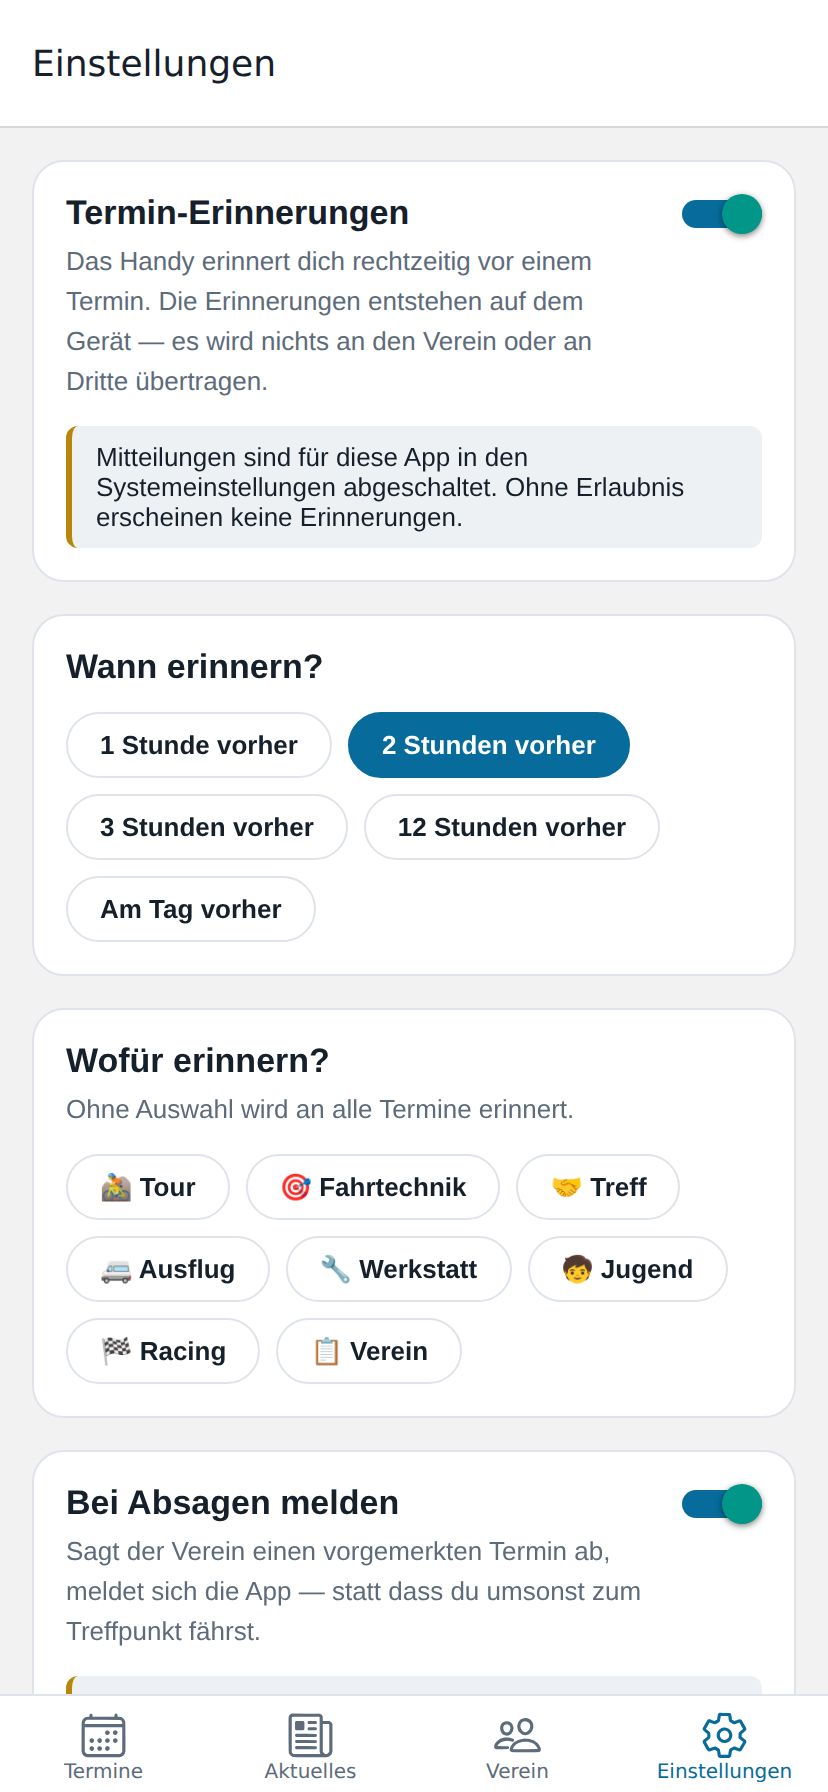
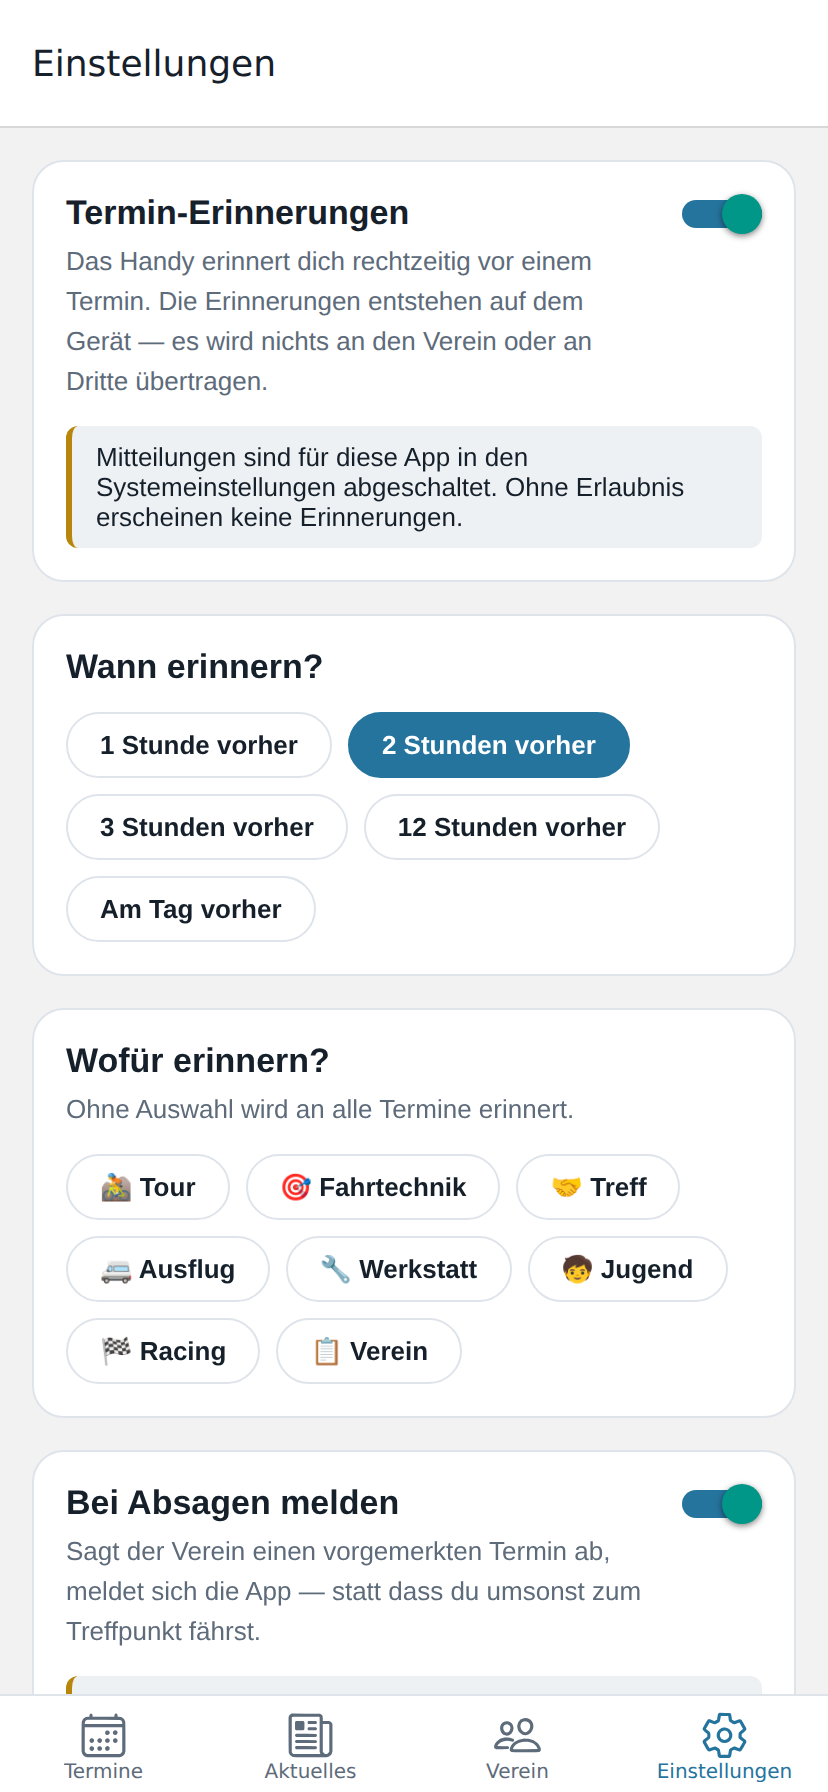
Offizielle Druckfarbe des Vereins als Grundfarbe einsetzen
Die App nutzt jetzt #25749E — die farbmetrische Umrechnung der verbindlichen
Druckdefinition C 90 | M 50 | Y 20 | K 5 über ICC-Profile. Bisher stand dort
#076C9B, also die Farbe, wie Ghostscript die Logodatei wiedergibt. Der
Unterschied beträgt ΔE 4,6 und ist im Vergleich nebeneinander erkennbar, im
Alltag kaum.

Ausschlaggebend war die Herkunft: Der neue Wert ergibt sich unmittelbar aus der
Definition des Vereins, der alte aus einer Wiedergabe davon.

Neu ist src/brand.ts als einzige Stelle für die Vereinsfarben. Die Palette, die
Benachrichtigungsfarbe und die Symbolerzeugung greifen darauf zu — letztere
liest den Wert aus der Datei, statt ihn ein zweites Mal zu führen. Eine zweite
Stelle für dieselbe Farbe läuft irgendwann auseinander, und dann hat das
App-Symbol einen anderen Blauton als die Oberfläche.

Nennt der Verein später einen eigenen HEX-Wert für digitale Anwendungen, ist es
eine Zeile in src/brand.ts plus ein Lauf von tools/logo-assets.py.

Symbole, Startbild und die Screenshots in der README sind neu erzeugt.

Claude-Session: https://claude.ai/code/session_01XuMgtR2FhMR737oGRAWiY2

diff --git a/src/brand.ts b/src/brand.ts
@@ -1,0 +1,54 @@
+/**
+ * Die Vereinsfarben — eine Quelle für App, Symbole und Startbild.
+ *
+ * ## Verbindlich ist die Druckdefinition
+ *
+ *     Blau:    C 90 | M 50 | Y 20 | K 5
+ *     Schwarz: reines Schwarz
+ *
+ * Nachgeprüft an der Logodatei: Sie enthält genau diese Werte (gemessen
+ * C 90,6 M 52,9 Y 18,8 K 3,9 — die Abweichung stammt aus der 8-Bit-Speicherung).
+ *
+ * ## Vom Druck auf den Bildschirm
+ *
+ * Ein Bildschirm kennt kein CMYK, und die Umrechnung hat kein einzelnes
+ * richtiges Ergebnis — sie hängt am Farbprofil. Gemessen wurde (Abstand in ΔE,
+ * unter 2 heißt für das Auge gleich, über 5 deutlich verschieden):
+ *
+ * | Weg                                  | Ergebnis  |
+ * |--------------------------------------|-----------|
+ * | ICC-Umrechnung der Druckfarbe        | `#25749e` |
+ * | so rendert Ghostscript die Logodatei | `#076c9b` |
+ * | Stylesheet der Vereinswebsite        | `#00679a` |
+ * | Faustformel ohne Farbmanagement      | `#1879c2` |
+ *
+ * Verwendet wird die **ICC-Umrechnung**: Sie ist der einzige Wert, der sich
+ * unmittelbar aus der offiziellen Druckdefinition ergibt, statt aus einer
+ * Wiedergabe davon. Die drei erstgenannten liegen ohnehin in derselben
+ * Farbfamilie (ΔE 3,5 bis 7,9 untereinander).
+ *
+ * Die Faustformel scheidet aus: Sie liegt mit ΔE über 14 von allen anderen
+ * entfernt und ergäbe ein sichtbar helleres, bunteres Blau.
+ *
+ * ## Zum Ändern
+ *
+ * Nennt der Verein einen eigenen HEX-Wert für digitale Anwendungen, gehört er
+ * hierher — er schlägt jede Umrechnung. Danach einmal
+ * `python3 tools/logo-assets.py` laufen lassen, damit Symbole und Startbild
+ * nachziehen. `python3 tools/farbe-pruefen.py` zeigt die Abstände.
+ */
+
+/** Die Druckdefinition des Vereinsblaus, in Prozent. */
+export const BRAND_BLUE_CMYK = { c: 90, m: 50, y: 20, k: 5 } as const;
+
+/** Das Vereinsblau als Bildschirmfarbe. */
+export const BRAND_BLUE = '#25749e';
+
+/**
+ * Schwarz aus dem Logo — im Schriftzug, nicht in der Oberfläche.
+ *
+ * Für Fließtext auf hellem Grund nutzt die App bewusst kein reines Schwarz,
+ * sondern ein sehr dunkles Blaugrau: Reines Schwarz auf Weiß erzeugt auf
+ * Bildschirmen einen harten Kontrast, der beim Lesen längerer Texte ermüdet.
+ */
+export const BRAND_BLACK = '#000000';

diff --git a/src/theme.ts b/src/theme.ts
@@ -1,38 +1,14 @@
 /**
  * Farben, Abstände und Schriftgrößen der App.
  *
- * ## Das Vereinsblau
+ * Das Vereinsblau und seine Herleitung aus der Druckdefinition stehen in
+ * `brand.ts` — dort und nur dort wird es geändert.
  *
- * Verbindlich ist die Druckdefinition des Vereins:
- *
- *     C 90 | M 50 | Y 20 | K 5
- *
- * Nachgeprüft: Die Logodatei enthält genau diese Werte (C 90,6 M 52,9 Y 18,8
- * K 3,9 — die Abweichung stammt aus der 8-Bit-Speicherung).
- *
- * Für den Bildschirm braucht es daraus ein RGB-Gegenstück, und dabei gibt es
- * kein einzelnes richtiges Ergebnis — es hängt am Farbprofil. Gemessen wurde:
- *
- * | Weg                                  | Ergebnis  | Abstand zu `#076c9b` |
- * |--------------------------------------|-----------|----------------------|
- * | Faustformel ohne Farbmanagement      | `#1879c2` | ΔE 16,5              |
- * | ICC-Umrechnung (CMYK → sRGB)         | `#25749e` | ΔE  4,6              |
- * | so rendert Ghostscript die Logodatei | `#076c9b` | —                    |
- * | Stylesheet der Vereinswebsite        | `#00679a` | ΔE  3,5              |
- *
- * Gewählt ist `#076c9b`: Es liegt mit ΔE unter 5 sowohl an der farbmetrischen
- * Umrechnung der offiziellen Druckfarbe als auch am Blau der Website, hält also
- * beides zusammen. Die Faustformel scheidet aus — mit ΔE über 14 wäre das ein
- * sichtbar anderes, zu helles Blau gewesen.
- *
- * (ΔE unter 2 heißt für das Auge praktisch gleich, über 5 deutlich verschieden.)
- *
- * ## Farbschemata
- *
- * Beide sind gepflegt: Wer im Wald bei Dämmerung aufs Handy schaut, will nicht
- * geblendet werden.
+ * Beide Farbschemata sind gepflegt: Wer im Wald bei Dämmerung aufs Handy
+ * schaut, will nicht geblendet werden.
  */
 
+import { BRAND_BLUE } from './brand';
 import type { EventCategory } from './domain/types';
 
 export interface Palette {
@@ -57,7 +33,7 @@ export const lightPalette: Palette = {
   border: '#dfe4ea',
   text: '#16202b',
   textMuted: '#5d6b7a',
-  primary: '#076c9b',
+  primary: BRAND_BLUE,
   onPrimary: '#ffffff',
   accent: '#2f8f4e',
   danger: '#c0392b',

diff --git a/src/notifications/index.ts b/src/notifications/index.ts
@@ -13,6 +13,8 @@
 import * as Notifications from 'expo-notifications';
 import { Platform } from 'react-native';
 
+import { BRAND_BLUE } from '../brand';
+
 import type { ClubEvent } from '../domain/types';
 import { formatShortDate, formatTime } from '../features/events/format';
 import { diffReminders, planReminders, type PlannedReminder } from './scheduler';
@@ -45,7 +47,7 @@ export async function requestPermission(): Promise<boolean> {
     await Notifications.setNotificationChannelAsync(ANDROID_CHANNEL_ID, {
       name: 'Termin-Erinnerungen',
       importance: Notifications.AndroidImportance.DEFAULT,
-      lightColor: '#076c9b',
+      lightColor: BRAND_BLUE,
     });
   }
 

diff --git a/tools/logo-assets.py b/tools/logo-assets.py
@@ -31,6 +31,7 @@ Das Skript läuft selten — es wird nur gebraucht, wenn der Verein sein Logo
 
 from __future__ import annotations
 
+import re
 import struct
 import subprocess
 import sys
@@ -45,13 +46,22 @@ QUELLE = WURZEL / "assets/logo/MTB_Bielefeld_EV_Logo.eps"
 ZIEL = WURZEL / "assets"
 ARBEIT = WURZEL / ".logo-arbeit"
 
-#: Vereinsblau als Bildschirmfarbe.
-#:
-#: Verbindlich ist die Druckdefinition des Vereins: C 90 | M 50 | Y 20 | K 5.
-#: Welches RGB dem entspricht, hängt am Farbprofil — die Abwägung samt Messwerten
-#: steht in ``src/theme.ts``, nachrechnen lässt sie sich mit
-#: ``tools/farbe-pruefen.py``.
-BLAU = (7, 108, 155)  # #076C9B
+def vereinsblau() -> tuple[int, int, int]:
+    """Liest das Vereinsblau aus ``src/brand.ts``.
+
+    Bewusst gelesen statt hier noch einmal hingeschrieben: Eine zweite Stelle
+    für dieselbe Farbe läuft irgendwann auseinander, und dann hat das
+    App-Symbol einen anderen Blauton als die Oberfläche.
+    """
+    quelle = (WURZEL / "src/brand.ts").read_text(encoding="utf-8")
+    treffer = re.search(r"BRAND_BLUE\s*=\s*'#([0-9a-fA-F]{6})'", quelle)
+    if not treffer:
+        raise SystemExit("BRAND_BLUE nicht in src/brand.ts gefunden")
+    hexwert = treffer.group(1)
+    return tuple(int(hexwert[i : i + 2], 16) for i in (0, 2, 4))  # type: ignore[return-value]
+
+
+BLAU = None  # wird in main() gesetzt
 
 #: Auflösung fürs Rendern. Hoch genug, dass das Emblem deutlich über 1024 px
 #: breit herauskommt und beim Verkleinern nichts ausfranst.
@@ -210,6 +220,9 @@ def schrift_aufhellen(bild: Image.Image) -> Image.Image:
 
 
 def main() -> None:
+    global BLAU
+    BLAU = vereinsblau()
+
     if not QUELLE.exists():
         raise SystemExit(f"Logo nicht gefunden: {QUELLE}")
 
@@ -249,7 +262,7 @@ def main() -> None:
     auf_breite(banner_zuschneiden(banner), 900).save(WURZEL / "docs/logo.png")
     print("  docs/logo.png: 900 px breit")
 
-    print(f"\nVereinsblau: #{BLAU[0]:02X}{BLAU[1]:02X}{BLAU[2]:02X}")
+    print(f"\nVereinsblau aus src/brand.ts: #{BLAU[0]:02X}{BLAU[1]:02X}{BLAU[2]:02X}")
 
 
 if __name__ == "__main__":

diff --git a/tools/farbe-pruefen.py b/tools/farbe-pruefen.py
@@ -25,8 +25,8 @@ from PIL import Image, ImageCms
 #: Die verbindliche Druckdefinition des Vereins, in Prozent.
 DRUCKFARBE_CMYK = (90, 50, 20, 5)
 
-#: Was die App tatsächlich verwendet.
-APP_BLAU = "076C9B"
+#: Was die App tatsächlich verwendet (siehe ``src/brand.ts``).
+APP_BLAU = "25749E"
 
 CMYK_PROFIL = Path("/usr/share/color/icc/ghostscript/default_cmyk.icc")
 SRGB_PROFIL = Path("/usr/share/color/icc/ghostscript/srgb.icc")

diff --git a/README.md b/README.md
@@ -335,17 +335,22 @@ neben Schwarz die einzige Farbe im Logo. Die Logodatei enthält genau diese Wert
 Für den Bildschirm gibt es daraus kein einzelnes richtiges RGB — es hängt am
 Farbprofil:
 
-| Weg | Ergebnis | Abstand zu `#076C9B` |
+| Weg | Ergebnis | Abstand zur Umrechnung |
 | --- | --- | --- |
-| Faustformel ohne Farbmanagement | `#1879C2` | ΔE 16,5 |
-| ICC-Umrechnung (CMYK → sRGB) | `#25749E` | ΔE 4,6 |
-| so rendert Ghostscript die Logodatei | `#076C9B` | — |
-| Stylesheet der Vereinswebsite | `#00679A` | ΔE 3,5 |
+| **ICC-Umrechnung der Druckfarbe** | **`#25749E`** | — |
+| so rendert Ghostscript die Logodatei | `#076C9B` | ΔE 4,6 |
+| Stylesheet der Vereinswebsite | `#00679A` | ΔE 7,9 |
+| Faustformel ohne Farbmanagement | `#1879C2` | ΔE 18,8 |
 
-Die App nutzt **`#076C9B`**. Es liegt mit ΔE unter 5 sowohl an der
-farbmetrischen Umrechnung der offiziellen Druckfarbe als auch am Blau der
-Website und hält damit beides zusammen. Die naheliegende Faustformel scheidet
-aus: Mit ΔE über 14 wäre das ein sichtbar anderes, zu helles Blau.
+Die App nutzt die **ICC-Umrechnung**: Sie ist der einzige Wert, der sich
+unmittelbar aus der offiziellen Druckdefinition ergibt statt aus einer
+Wiedergabe davon. Die ersten drei liegen ohnehin in derselben Farbfamilie.
+
+Die naheliegende Faustformel scheidet aus: Mit ΔE über 18 wäre das ein sichtbar
+helleres, bunteres Blau.
+
+Geändert wird die Farbe an genau einer Stelle — [`src/brand.ts`](src/brand.ts).
+Danach `python3 tools/logo-assets.py`, damit Symbole und Startbild nachziehen.
 
 Nachrechnen lässt sich das mit [`tools/farbe-pruefen.py`](tools/farbe-pruefen.py).
 
